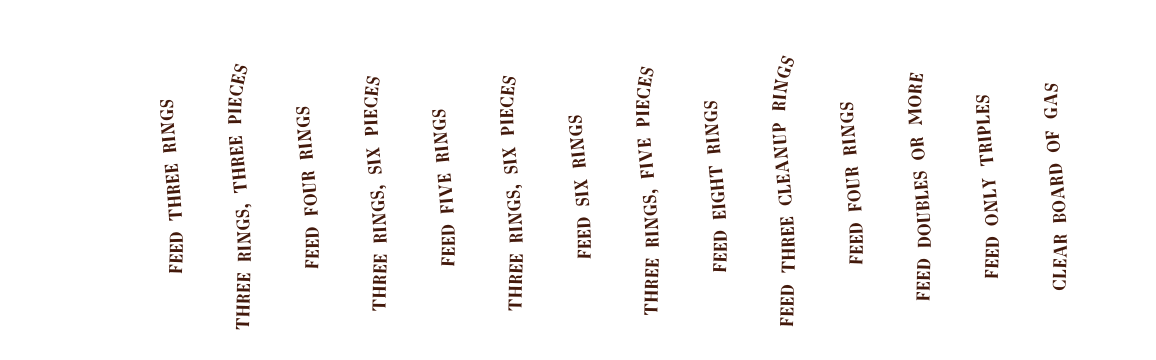
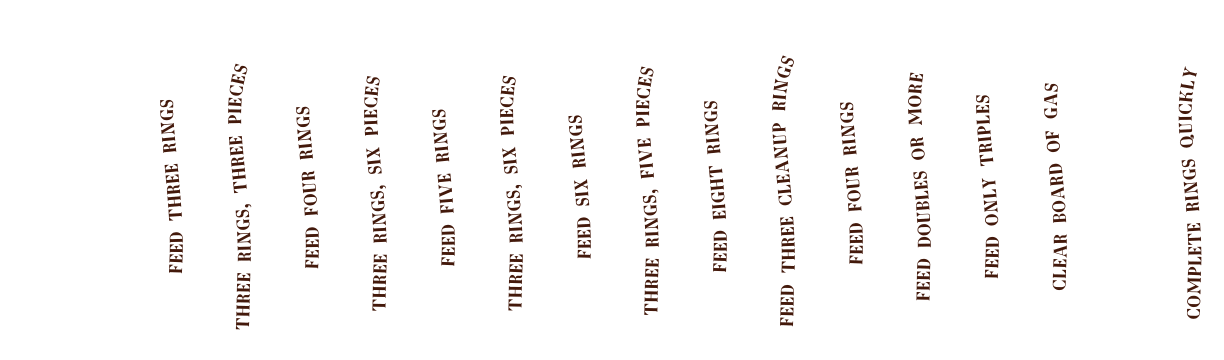
possible bug fixes: no soundfx during story skip plays music after completing game in fiesta mode

diff --git a/js/levels.js b/js/levels.js
@@ -196,7 +196,7 @@ Level.prototype.preload = function () {
     this.newimgs = this.newimgs.concat([['nar_mid'],['nar_head'],['nar_foot'],['moon_head'],['moon_mid'],['moon_foot'],
 					['sun_head'],['sun_mid'],['sun_foot'],['moon',[0.08*cvs.width,0.9*cvs.height],[1,4]],
 				        ['lefty'],['righty'],['piece_t'],['piece_straight'],['piece_l'],['piece_cup'],
-				        ['piece_u'],['objectives',[0,0],[17,1]]]);
+				        ['piece_u'],['objectives',[0,0],[18,1]]]);
     if (this.newpats == undefined) {
 	this.newpats = [];
     }
@@ -881,6 +881,7 @@ SleepingBaby.prototype.enter_tutorial = function (update) {
     this.tutorial_dialog = "use + to rotate the piece.\n \n use < or > to spin the star.\n \n when you like your position, press = to launch.";
     this.dialog_animation = function () {
 	input.reset();
+	game.apply_options();
 	game.gotolater(game.tutorial1);
 	delete this.dialog_animation;
 	return true;
@@ -1049,6 +1050,7 @@ SleepingBabyNeg.prototype.enter_tutorial = function (update) {
     this.tutorial_dialog = "press enter or space to switch between normal pieces and gas pieces, then land the piece on top of the trapped gas to open up a hole.";
     this.dialog_animation = function () {
 	input.reset();
+	game.apply_options();
 	game.gotolater(game.tutorial2);
 	delete this.dialog_animation;
 	return true;

diff --git a/js/sound.js b/js/sound.js
@@ -63,20 +63,25 @@ SoundFile.prototype.playagainlater = function () {
     }, false);
 };
 SoundFile.prototype.set_callback = function (what) {
-    this.file.removeEventListener('ended', arguments.callee, false);
-    this.file.addEventListener('ended',function () {
+    this.currentroutine = function () {
 	this.parent.playing = false;
 	what();
 	this.removeEventListener('ended', arguments.callee, false);
 	this.addEventListener('ended',function () {
 	    this.parent.playing = false;
-	}, false);
-    }, false);
+	},false);
+    };
+    this.file.removeEventListener('ended', arguments.callee, false);
+    this.file.addEventListener('ended',this.currentroutine, false);
 };
 SoundFile.prototype.end = function () {
     if (! this.playing || this.error) {
 	return;
     }
+    this.file.removeEventListener('ended', this.currentroutine, false);
+    this.file.addEventListener('ended',function () {
+	this.parent.playing = false;
+    }, false);
     this.file.currentTime = this.file.duration;
 };
 SoundFile.prototype.do_pause = function () {

diff --git a/js/wesley.js b/js/wesley.js
@@ -787,7 +787,6 @@ Game.prototype.nextlevel = function () {
     }
     if (this.lvl >= this.lvls.length-1) {
 	this.save_level();
-	this.music = false;
 	if(this.soundtrack.length > 0) {
 	    this.soundtrack[0].end();
 	}
@@ -1077,6 +1076,7 @@ Game.prototype.loading = function () {
     }
     if (this.skip_dialog) {
 	this.censor();
+	this.sfx = false;
     }
 };
 Game.prototype.censor = function () {
@@ -1106,9 +1106,7 @@ Game.prototype.dialog_animation = function () {
     }
     if (! lvl.dialog_animation()) {
 	if (! lvl.dialog(true)) {
-	    this.skip_dialog = this.always_skip_dialog;
-	    this.sfx = this.always_sfx;
-	    this.music = this.always_music;
+	    this.apply_options();
 	    lvl.total_lines = lvl.lines;
 	    input.reset();
 	    this.gotolater(this.waitcmd);
